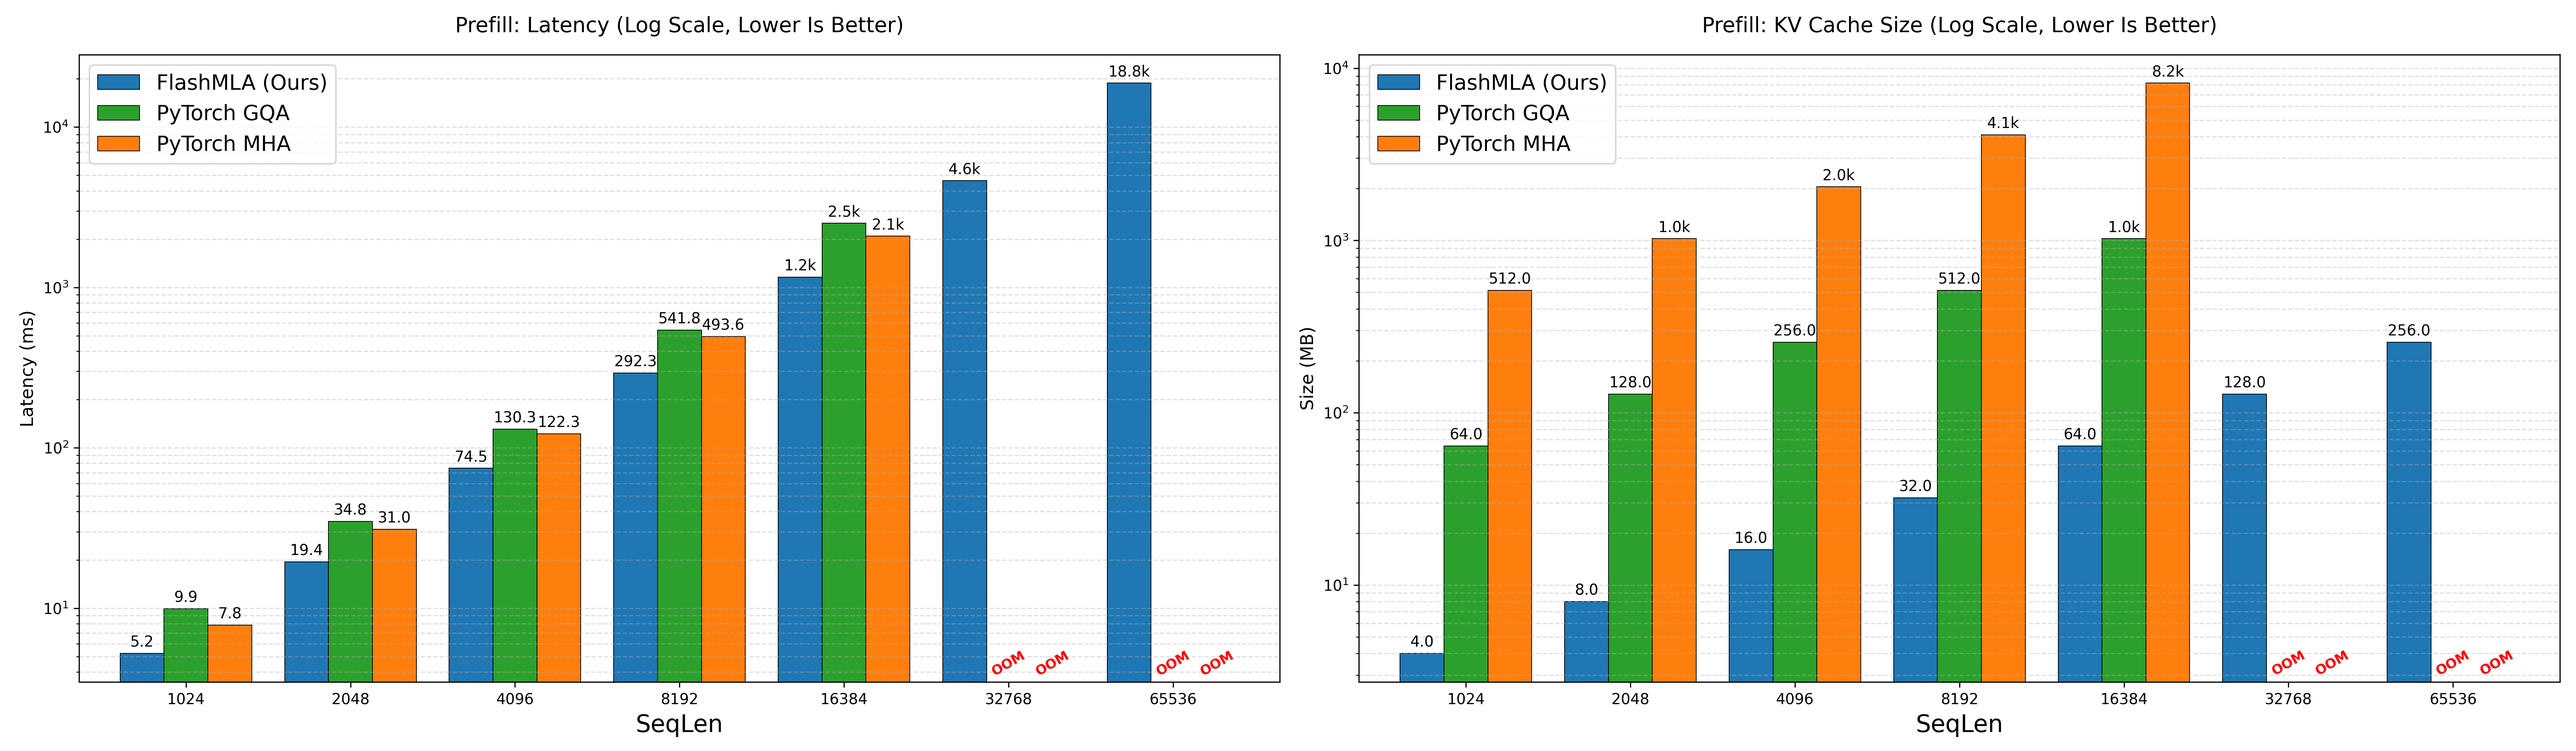
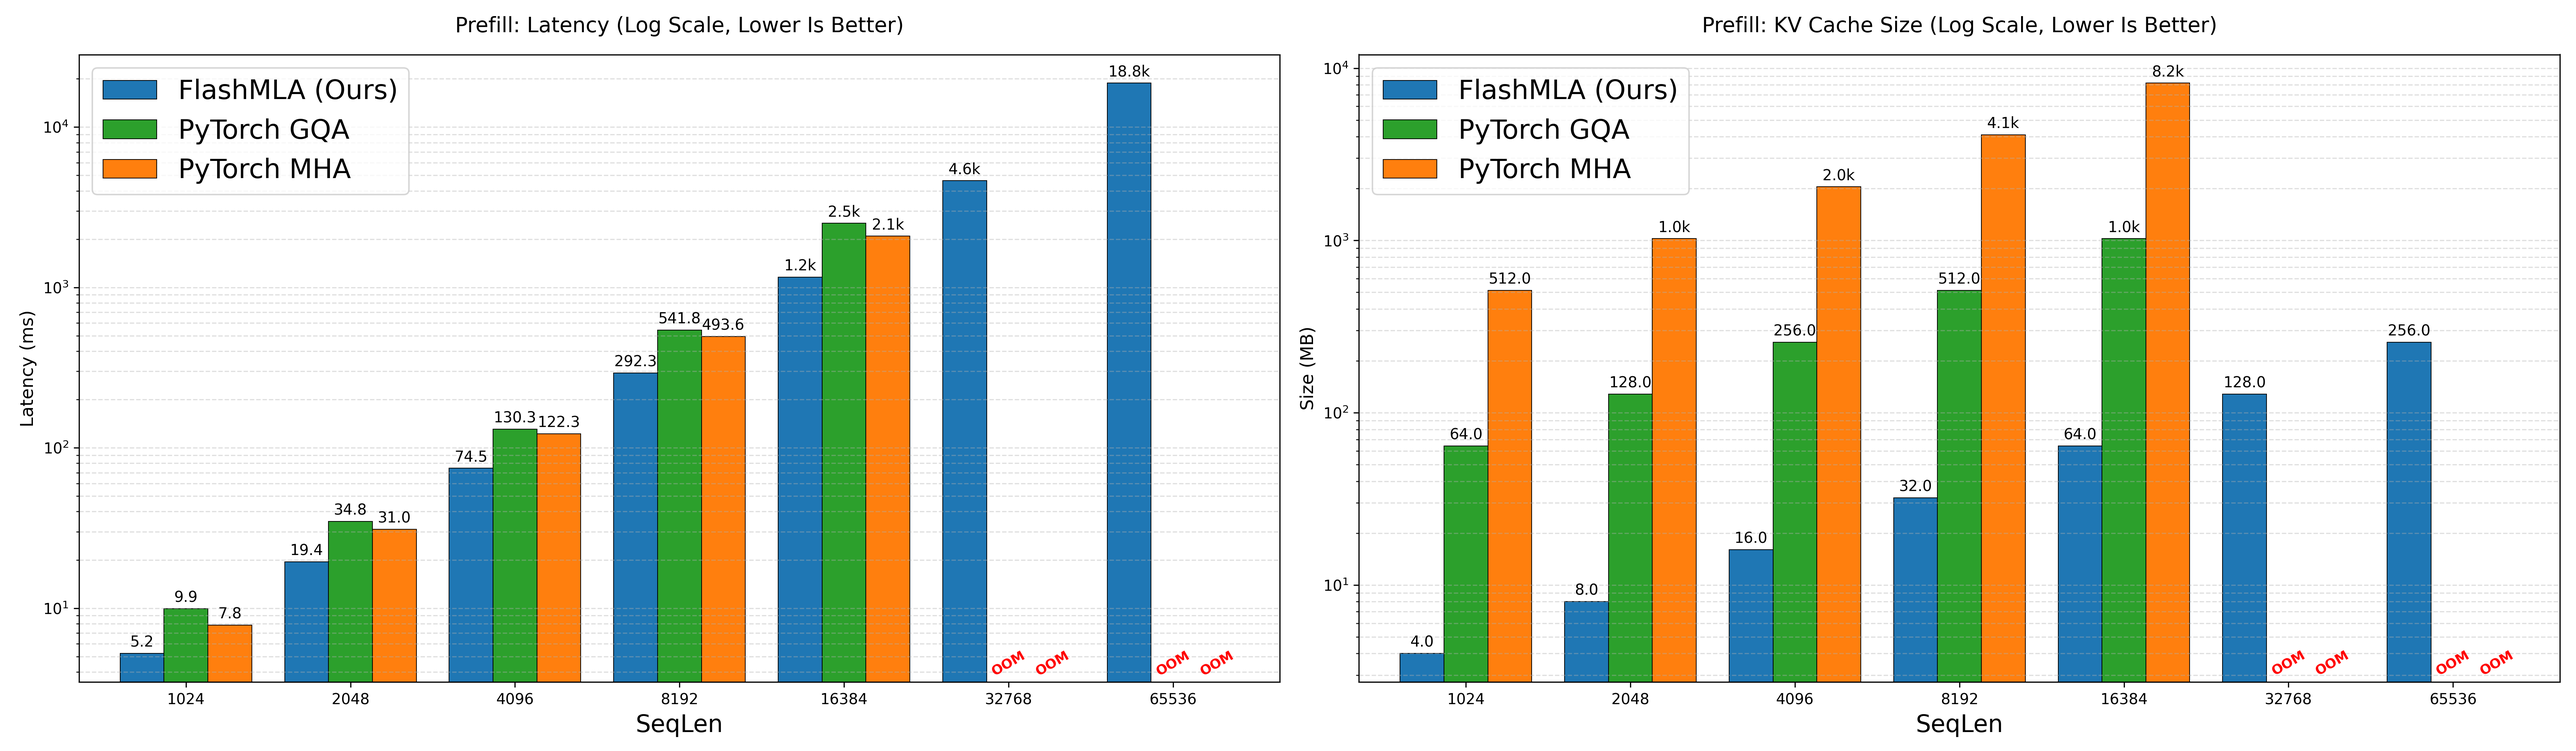
Update plots

Changed region(s): [[0.0312, 0.0619, 0.1562, 0.2476], [0.5312, 0.0619, 0.6562, 0.2476]]

diff --git a/benchmarks/results/plot.py b/benchmarks/results/plot.py
@@ -51,8 +51,8 @@ def run_experiment_plot(df, x_col, title_prefix, filename):
         ax_item.set_xlabel(x_col, fontsize=16)
         ax_item.tick_params(axis='x', rotation=0)
     
-    ax1.legend(['FlashMLA (Ours)', 'PyTorch GQA', 'PyTorch MHA'], fontsize=14, loc='upper left')
-    ax2.legend(['FlashMLA (Ours)', 'PyTorch GQA', 'PyTorch MHA'], fontsize=14, loc='upper left')
+    ax1.legend(['FlashMLA (Ours)', 'PyTorch GQA', 'PyTorch MHA'], fontsize=18, loc='upper left')
+    ax2.legend(['FlashMLA (Ours)', 'PyTorch GQA', 'PyTorch MHA'], fontsize=18, loc='upper left')
 
     plt.tight_layout()
     plt.savefig(filename, dpi=300)
